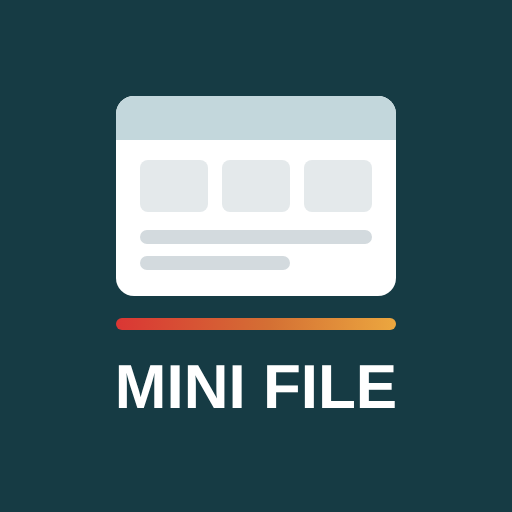
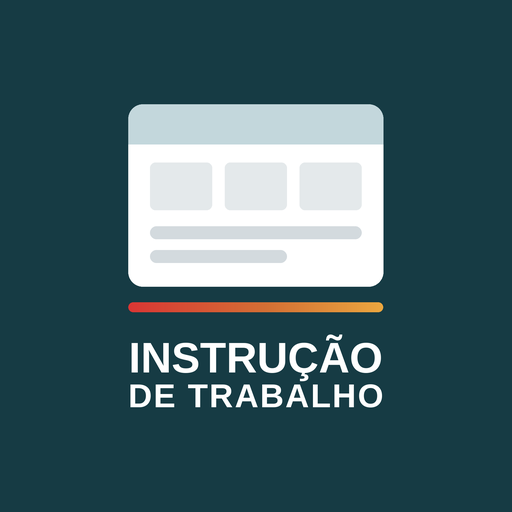
Add files via upload

Changed region(s): [[0.2188, 0.1875, 0.7812, 0.8125], [0.4062, 0.3125, 0.5938, 0.4062]]

diff --git a/index.html b/index.html
@@ -756,7 +756,7 @@ class PaginaSVG extends Pagina {
     this.f.push('<rect x="' + x + '" y="' + (H - y - lado) + '" width="' + lado + '" height="' + lado + '" fill="#fff"/><path d="' + p + '" fill="#000" shape-rendering="crispEdges"/>');
   }
   svg() {
-    return '<svg xmlns="http://www.w3.org/2000/svg" viewBox="0 0 ' + W + " " + H + '" font-family="Arial,Helvetica,sans-serif" role="img" aria-label="Prévia do mini file">' +
+    return '<svg xmlns="http://www.w3.org/2000/svg" viewBox="0 0 ' + W + " " + H + '" font-family="Arial,Helvetica,sans-serif" role="img" aria-label="Prévia da instrução de trabalho">' +
       "<defs>" + this.defs.join("") + '</defs><rect width="' + W + '" height="' + H + '" fill="#fff"/>' + this.f.join("") + "</svg>";
   }
 }
@@ -1004,7 +1004,7 @@ function montar(pg, d) {
   const etapas = d.etapas || [], n = Math.max(1, etapas.length);
   const y3 = secao(pg, y - bh - 9, 3, "EXECUÇÃO", etapas.length + (etapas.length === 1 ? " etapa" : " etapas"));
   const b3 = b4y + b4h + 8, gap = n <= 6 ? 9 : 6, cw = (W - 2 * M - (n - 1) * gap) / n;
-  if (cw < CARTAO_MIN) aviso("Execução: " + n + " etapas deixam cada cartão com " + (cw / 28.35).toFixed(1).replace(".", ",") + " cm; junte etapas ou divida em dois mini files.");
+  if (cw < CARTAO_MIN) aviso("Execução: " + n + " etapas deixam cada cartão com " + (cw / 28.35).toFixed(1).replace(".", ",") + " cm; junte etapas ou divida em duas instruções de trabalho.");
   const tt = Math.max(8, Math.min(10.5, cw / 14));
   let cs = Math.max(MIN_TXT, Math.min(8, 6 + cw / 70)), ks = Math.max(6.5, cs - 0.6);
   const inner = cw - 14, rotK = "Ponto-chave:";
@@ -1214,7 +1214,7 @@ const TELAS = [
   () => '<h2>3. Antes de começar</h2>' +
     '<div class="cartao seg"><h3>Segurança</h3><div class="cond">' +
     [["parado", "Parado, com bloqueio"], ["operacao", "Em operação"]].map(c => '<button type="button" class="tipo" data-ac="cond" data-v="' + c[0] + '" aria-pressed="' + (E.condicao === c[0]) + '"><span>' + c[1] + "</span></button>").join("") +
-    '</div><p class="dica">Obrigatório: sem a condição o mini file não é gerado.</p>' +
+    '</div><p class="dica">Obrigatório: sem a condição a instrução de trabalho não é gerada.</p>' +
     '<label class="campo"><span class="r"><span>Riscos (conferir na APR da área)</span></span></label>' + listaTexto("riscos", "Ex.: Partes rotativas") +
     '<button type="button" class="btn leve" data-ac="mais" data-p="riscos">+ Risco</button></div>' +
     '<div class="cartao epi"><h3>EPIs obrigatórios</h3><p class="dica">Sempre usar (EPIs da área): ' + EPIS_AREA.join(" · ") + ". Marque abaixo só os específicos desta atividade.</p>" +
@@ -1237,9 +1237,9 @@ const TELAS = [
       campo("Título (um verbo)", "etapas." + i + ".titulo", {ph: "Ex.: Bloquear", max: 22}) + campo("Como fazer", "etapas." + i + ".como", {area: true, max: 110}) +
       campo("Ponto-chave", "etapas." + i + ".chave", {max: 60, opc: false}) + blocoFoto("etapas." + i + ".foto", "Foto da etapa") + "</div>").join("") +
     '<button type="button" class="btn leve" data-ac="maisetapa">+ Etapa</button>' +
-    (E.etapas.length > 7 ? '<div class="aviso info">Com ' + E.etapas.length + " etapas os cartões ficam estreitos. Considere juntar etapas ou dividir em dois mini files.</div>" : ""),
+    (E.etapas.length > 7 ? '<div class="aviso info">Com ' + E.etapas.length + " etapas os cartões ficam estreitos. Considere juntar etapas ou dividir em duas instruções de trabalho.</div>" : ""),
   // 6 Observar
-  () => '<h2>6. O que observar</h2><p class="dica">Até 4 sinais de anomalia que o técnico deve verificar. O mini file já traz o aviso “Encontrou anomalia? Pare a atividade e abra uma nota no SAP.”</p>' +
+  () => '<h2>6. O que observar</h2><p class="dica">Até 4 sinais de anomalia que o técnico deve verificar. A instrução de trabalho já traz o aviso “Encontrou anomalia? Pare a atividade e abra uma nota no SAP.”</p>' +
     '<div class="cartao">' + listaTexto("observar", "Ex.: Ruído anormal no mancal", 60) +
     (E.observar.length < 4 ? '<button type="button" class="btn leve" data-ac="mais" data-p="observar">+ Sinal de anomalia</button>' : "") + "</div>",
   // 7 Gerar
@@ -1252,11 +1252,11 @@ const TELAS = [
       (erro ? '<div class="aviso erro"><strong>Não consegui montar a prévia</strong><span>' + h(erro) + "</span></div>" :
         '<div class="previa" id="previa">' + pg.svg() + '</div><button type="button" class="btn leve" data-ac="zoom">Ampliar / reduzir a prévia</button>') +
       (avisos.length ? '<div class="aviso info"><strong>Avisos do layout</strong><ul class="lista">' + avisos.map(t => "<li>" + h(t) + "</li>").join("") + "</ul></div>" : "") +
-      (pend.length ? '<div class="aviso info"><strong>Em branco (' + pend.length + ")</strong><span>O mini file é gerado mesmo assim: o que não foi informado fica em branco.</span><ul class=\"lista\">" + pend.map(t => "<li>" + h(t) + "</li>").join("") + "</ul></div>"
+      (pend.length ? '<div class="aviso info"><strong>Em branco (' + pend.length + ")</strong><span>A instrução de trabalho é gerada mesmo assim: o que não foi informado fica em branco.</span><ul class=\"lista\">" + pend.map(t => "<li>" + h(t) + "</li>").join("") + "</ul></div>"
         : '<div class="aviso ok"><strong>Tudo preenchido.</strong></div>') +
       '<div class="cartao"><h3>Arquivo</h3><div class="doc">' + h(doc) + ".pptx</div>" +
       '<p class="dica">PowerPoint editável, A4 paisagem, fonte Arial. Salve em: pasta Mini File / ' + (h(d.pasta) || "nº do equipamento") + " / " + h(doc) + ".pptx</p>" +
-      '<div class="acoes"><button type="button" class="btn" data-ac="gerar"' + (falta.length || erro ? " disabled" : "") + ">Gerar mini file (.pptx)</button>" +
+      '<div class="acoes"><button type="button" class="btn" data-ac="gerar"' + (falta.length || erro ? " disabled" : "") + ">Gerar instrução de trabalho (.pptx)</button>" +
       '<button type="button" class="btn sec" data-ac="compartilhar" id="btComp" hidden>Compartilhar</button></div><div id="resultado"></div></div>';
   }
 ];
@@ -1349,7 +1349,7 @@ async function gerar(bt) {
   try {
     ultimoArquivo = await gerarBlob();
     await entregar(ultimoArquivo.blob, ultimoArquivo.nome);
-    res.innerHTML = '<div class="aviso ok"><strong>Mini file gerado</strong><span>' + h(ultimoArquivo.nome) + " (" + Math.round(ultimoArquivo.blob.size / 1024) + " KB). Veja na pasta Downloads do aparelho.</span></div>";
+    res.innerHTML = '<div class="aviso ok"><strong>Instrução de trabalho gerada</strong><span>' + h(ultimoArquivo.nome) + " (" + Math.round(ultimoArquivo.blob.size / 1024) + " KB). Veja na pasta Downloads do aparelho.</span></div>";
     const arq = new File([ultimoArquivo.blob], ultimoArquivo.nome, {type: ultimoArquivo.blob.type});
     if (navigator.canShare && navigator.canShare({files: [arq]})) $("#btComp").hidden = false;
   } catch (e) {

diff --git a/sw.js b/sw.js
@@ -1,5 +1,5 @@
-// Mini File Belgo - funciona sem internet depois da primeira abertura
-const CACHE = "minifile-v2";
+// Instrucao de Trabalho - funciona sem internet depois da primeira abertura
+const CACHE = "instrucao-trabalho-v1";
 const ARQUIVOS = ["./", "./index.html", "./manifest.webmanifest", "./icon-192.png", "./icon-512.png"];
 self.addEventListener("install", e => { e.waitUntil(caches.open(CACHE).then(c => c.addAll(ARQUIVOS)).then(() => self.skipWaiting())); });
 self.addEventListener("activate", e => {
